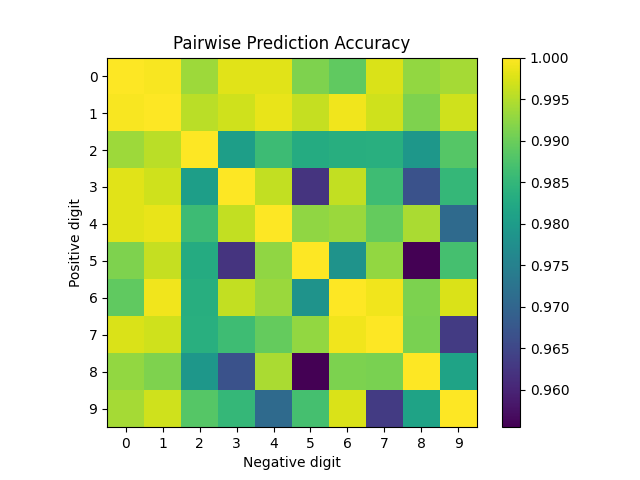
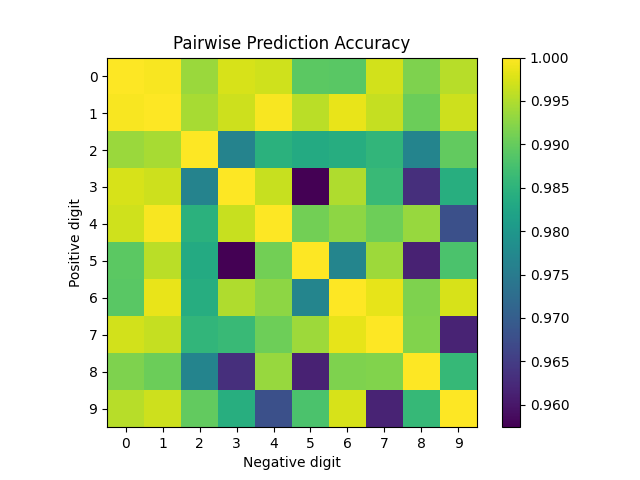
clarified accuracy in readme, corrected allvsone figures

diff --git a/hw1/analyze.py b/hw1/analyze.py
@@ -40,8 +40,8 @@ def allvsone(X_train: np.ndarray, y_train: np.ndarray, X_val: np.ndarray,
         _, all_acc = train(X_train, y_train, X_val, y_val, epochs, target, digits, verbose = False)
         scores[target] = all_acc
         
-    fig, ax = plt.subplots(figsize=(10, 1.5))
-    ax.axis("off")
+    fig, ax = plt.subplots(figsize=(10, 1.8))
+    ax.axis('off')
     
     col_labels = [f"Digit {d}" for d in digits]
     cell_text = [[f"{s*100:.2f}%" for s in scores]]
@@ -49,15 +49,17 @@ def allvsone(X_train: np.ndarray, y_train: np.ndarray, X_val: np.ndarray,
     table = ax.table(
         cellText= cell_text,
         colLabels= col_labels,
-        loc="center",
-        cellLoc="center",
+        loc='center',
+        cellLoc='center',
+        bbox=[0.0,0.0,1.0,0.8]
     )
     
     table.scale(1.0, 2.0)
     table.set_fontsize(12)
     
     plt.tight_layout
-    plt.savefig(PLOT_DIR / "all_preds.png")
+    ax.set_title("All vs. One digit-wise prediction accuracies", fontsize = 13, pad = 2)
+    plt.savefig(PLOT_DIR / "all_preds.png",  dpi=300, bbox_inches='tight')
 
 
 if __name__ == '__main__':

diff --git a/hw1/README.md b/hw1/README.md
@@ -29,7 +29,8 @@ The images were flattened for easier processing. This also meant that the bias t
 
 
 ## 4. Accuracy
-Accuracy was defined to be: "The ratio of correct predictions to the total predictions made on the validation set." After each training epoch, this ratio and corresponding weights were saved. Below are tables for pairwise accuracy and all vs. one accuracy. They were generated with the `analyze.py` script
+Accuracy was defined to be: "The ratio of correct predictions to the total predictions made on the validation set." After each training epoch, this ratio and corresponding weights were saved. Below are tables for pairwise accuracy and all vs. one accuracy. They were generated with the `analyze.py` script, with the scores determined by taking the prediction ratio of the best-performing weights $w$ during 15 epochs of training.
+
 
 ![Pairwise prediction matrix](figures/pairwise_preds.png)
 
